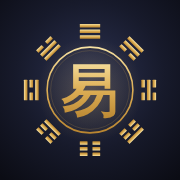
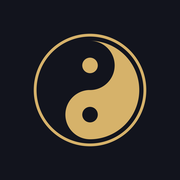
アイコンを太極図に変更
- icon-512.png / icon-192.png / apple-touch-icon.png / icon.svg を、紺地に金の太極図に差し替え
- アイコンの作成スクリプト tools/make-icons.py を追加(Pillow)
- icon.svg が別サイトの「鑑」の字になっていたのを解消
- sw.js を eki-v22 に更新

diff --git a/sw.js b/sw.js
@@ -1,6 +1,6 @@
 // 易 検索: オフライン対応。通信できるときは最新を取得し、できないときは保存済みを使う。
 // (本文・ノート・校正はブラウザのlocalStorageにあり、ここでは扱いません)
-const V = 'eki-v21';
+const V = 'eki-v22';
 const ASSETS = ['./', './index.html', './manifest.webmanifest', './icon-192.png', './icon-512.png', './apple-touch-icon.png'];
 self.addEventListener('install', e => {
   e.waitUntil(caches.open(V).then(c => c.addAll(ASSETS)).catch(() => {}));

diff --git a/tools/make-icons.py b/tools/make-icons.py
@@ -1,0 +1,33 @@
+"""易アプリのアイコン(太極図)を作る。使い方: python tools/make-icons.py  (Pillow が必要: pip install pillow)
+icon-512.png / icon-192.png / apple-touch-icon.png / icon.svg を、リポジトリ直下に書き出す。
+背景は全面を塗る(OSが角を丸める。maskable に対応するため、図は中央の約65%に収める)。"""
+from pathlib import Path
+from PIL import Image, ImageDraw
+
+BG, GOLD = (0x12, 0x14, 0x1d), (0xd6, 0xb2, 0x6a)
+ROOT = Path(__file__).resolve().parent.parent
+S = 8  # 作図は8倍の大きさで行い、縮小してなめらかにする
+
+def render(size):
+    n = 512 * S
+    im = Image.new('RGB', (n, n), BG)
+    d = ImageDraw.Draw(im)
+    def circle(cx, cy, r, fill=None, outline=None, width=0):
+        d.ellipse([(cx - r) * S, (cy - r) * S, (cx + r) * S, (cy + r) * S], fill=fill, outline=outline, width=width * S)
+    circle(256, 256, 160, outline=GOLD, width=8)                       # 外の輪
+    d.pieslice([(256 - 140) * S, (256 - 140) * S, (256 + 140) * S, (256 + 140) * S], -90, 90, fill=GOLD)  # 右半分
+    circle(256, 326, 70, fill=GOLD)                                     # 下のふくらみ(金)
+    circle(256, 186, 70, fill=BG)                                       # 上のふくらみ(紺)
+    circle(256, 186, 22, fill=GOLD)                                     # 上の点
+    circle(256, 326, 22, fill=BG)                                       # 下の点
+    return im.resize((size, size), Image.LANCZOS)
+
+SVG = f'''<svg xmlns="http://www.w3.org/2000/svg" viewBox="0 0 512 512"><rect width="512" height="512" fill="#{BG[0]:02x}{BG[1]:02x}{BG[2]:02x}"/><circle cx="256" cy="256" r="160" fill="none" stroke="#{GOLD[0]:02x}{GOLD[1]:02x}{GOLD[2]:02x}" stroke-width="8"/><path d="M256 116 a140 140 0 0 1 0 280 a70 70 0 0 1 0 -140 a70 70 0 0 0 0 -140 Z" fill="#{GOLD[0]:02x}{GOLD[1]:02x}{GOLD[2]:02x}"/><circle cx="256" cy="186" r="22" fill="#{GOLD[0]:02x}{GOLD[1]:02x}{GOLD[2]:02x}"/><circle cx="256" cy="326" r="22" fill="#{BG[0]:02x}{BG[1]:02x}{BG[2]:02x}"/></svg>
+'''
+
+if __name__ == '__main__':
+    for name, size in (('icon-512.png', 512), ('icon-192.png', 192), ('apple-touch-icon.png', 180)):
+        render(size).save(ROOT / name, optimize=True)
+        print('wrote', name, size)
+    (ROOT / 'icon.svg').write_text(SVG, encoding='utf-8')
+    print('wrote icon.svg')
